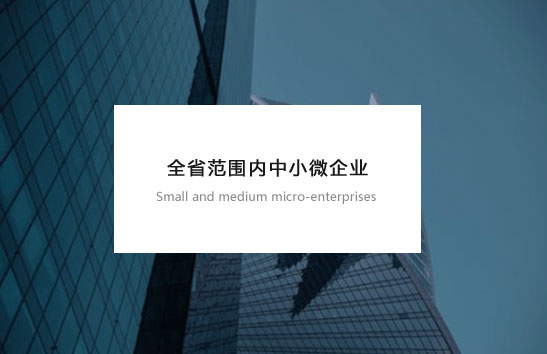
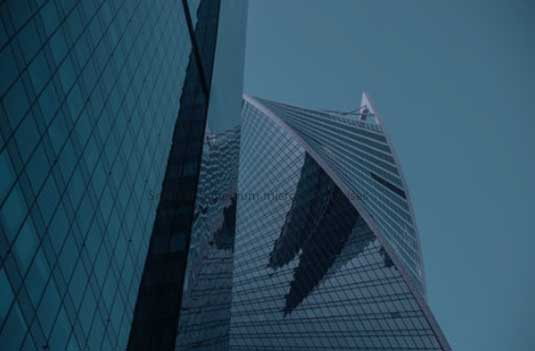
优化

diff --git a/html/service.html b/html/service.html
@@ -30,6 +30,40 @@
 			margin-right: 5px;
 			font-size: 0;
 			margin-bottom: 5px;
+			display: flex;
+			justify-content: center;
+			align-items: center;
+		}
+		.img-box:hover .desc-box {
+			opacity: 1;
+		}
+		.desc-box {
+			background: #fff;
+			position: absolute;
+			width: 305px;
+			height: 102px;
+			display: flex;
+    		align-items: center;
+    		justify-content: center;
+    		opacity: 0;
+    		box-sizing: border-box;
+		}
+		.text {
+			font-size: 18px;
+			color: #000;
+			margin-bottom: 10px;
+			text-align: center;
+		}
+		.en-text {
+			color: #181818;
+			font-size: 12px;
+			opacity: 0.6;
+			text-align: center;
+		}
+		.right-box .desc-box{
+			width: 245px;
+			height: 116px;
+			padding: 0 40px;
 		}
 	</style>
 </head>
@@ -58,24 +92,63 @@
 		<div class="img-list">
 			<div>
 				<div class="img-box main-box">
-					<img src="../res/sbg-5.jpg" width="547" height="354" alt="">
+					<img src="../res/sbg-2.jpg" width="547" height="354" alt="">
+					<div class="desc-box">
+						<div>
+							<p class="text">全省范围内中小微企业</p>
+							<p class="en-text">Small and medium micro-enterprises</p>
+						</div>
+					</div>
 				</div>
 				<div class="img-box">
 					<img src="../res/sbg-5.jpg" alt="">
+					<div class="desc-box">
+						<div>
+							<p class="text">三农经营户</p>
+							<p class="en-text">Three rural households</p>
+						</div>
+					</div>					
 				</div>
 			</div>
 			<div>
-				<img src="../res/sbg-1.png" alt="">
+				<div class="img-box">
+					<img src="../res/sbg-1.png" alt="">
+					<div class="desc-box">
+						<div>
+							<p class="text">城镇个体从业人员</p>
+							<p class="en-text">Urban individual practitioners</p>
+						</div>
+					</div>				
+				</div>
+				
 			</div>
-			<div>
+			<div class="right-box">
 				<div class="img-box">
 					<img src="../res/sbg-6.jpg" alt="">
+					<div class="desc-box">
+						<div>
+							<p class="text">大学生创业人员</p>
+							<p class="en-text">College students entrepreneurs</p>
+						</div>
+					</div>					
 				</div>
 				<div class="img-box">
 					<img src="../res/sbg-4.jpg" alt="">
+					<div class="desc-box">
+						<div>
+							<p class="text">工程业主</p>
+							<p class="en-text">Project owner</p>
+						</div>
+					</div>					
 				</div>
 				<div class="img-box">
 					<img src="../res/sbg-3.jpg" alt="">
+					<div class="desc-box">
+						<div>
+							<p class="text">全省乃至全国 <br />诉讼案件申请人</p>
+							<p class="en-text">Litigation case applicant</p>
+						</div>
+					</div>					
 				</div>
 			</div>
 		</div>
@@ -85,11 +158,11 @@
 <div id="footer"></div>
 <script type="text/javascript" src="../js/index.js"></script>
 <script type="text/javascript">
-	$('.main-box').hover(function () {
-		$('.main-box img').attr('src', '../res/sbg-2.jpg')
-	}, function () {
-		$('.main-box img').attr('src', '../res/sbg-5.jpg')
-	})
+	// $('.main-box').hover(function () {
+	// 	$('.main-box img').attr('src', '../res/sbg-2.jpg')
+	// }, function () {
+	// 	$('.main-box img').attr('src', '../res/sbg-5.jpg')
+	// })
 </script>
 </body>
 </html>

diff --git a/html/business.html b/html/business.html
@@ -79,6 +79,10 @@
 	    text-align: center;
 	    border-left: 1px solid #e1e1e1;
 		}
+		.roll_row .roll__list li:hover {
+			background: #d6a966;
+			color: #fff;
+		}
 		.control {
 		    position: absolute;
 		    height: 95px;
